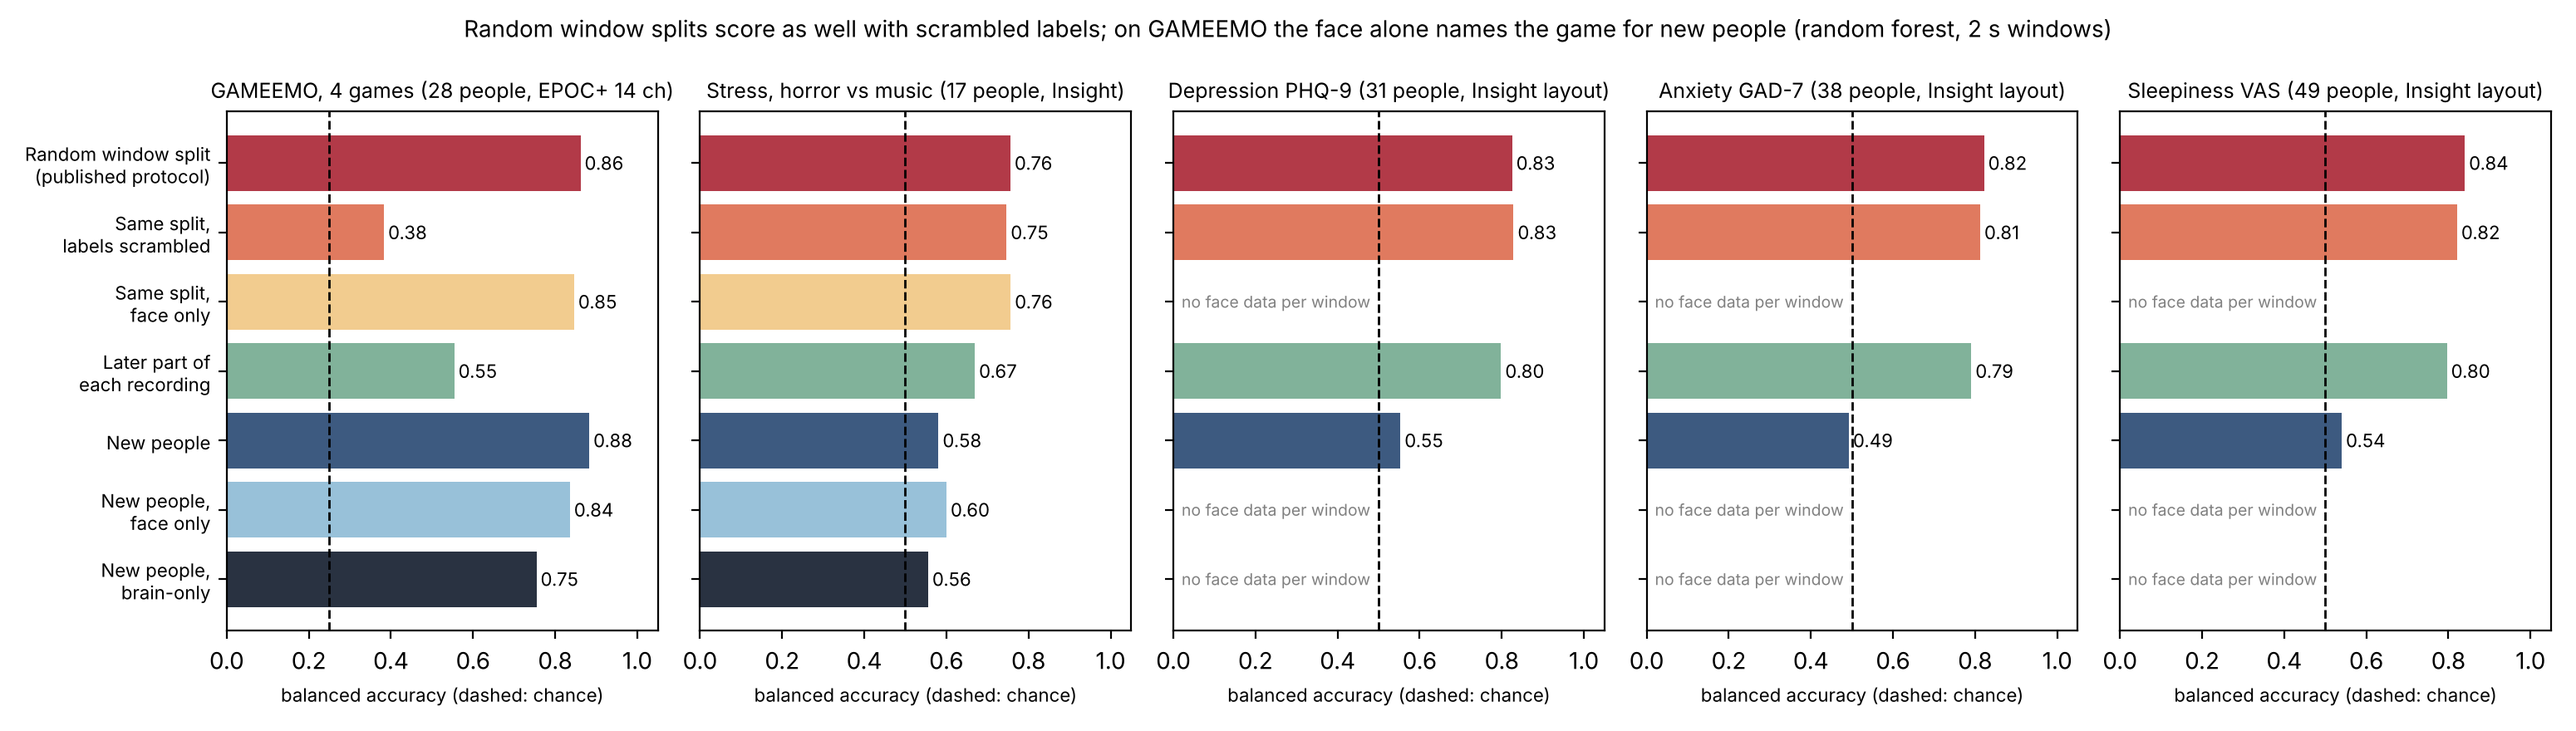
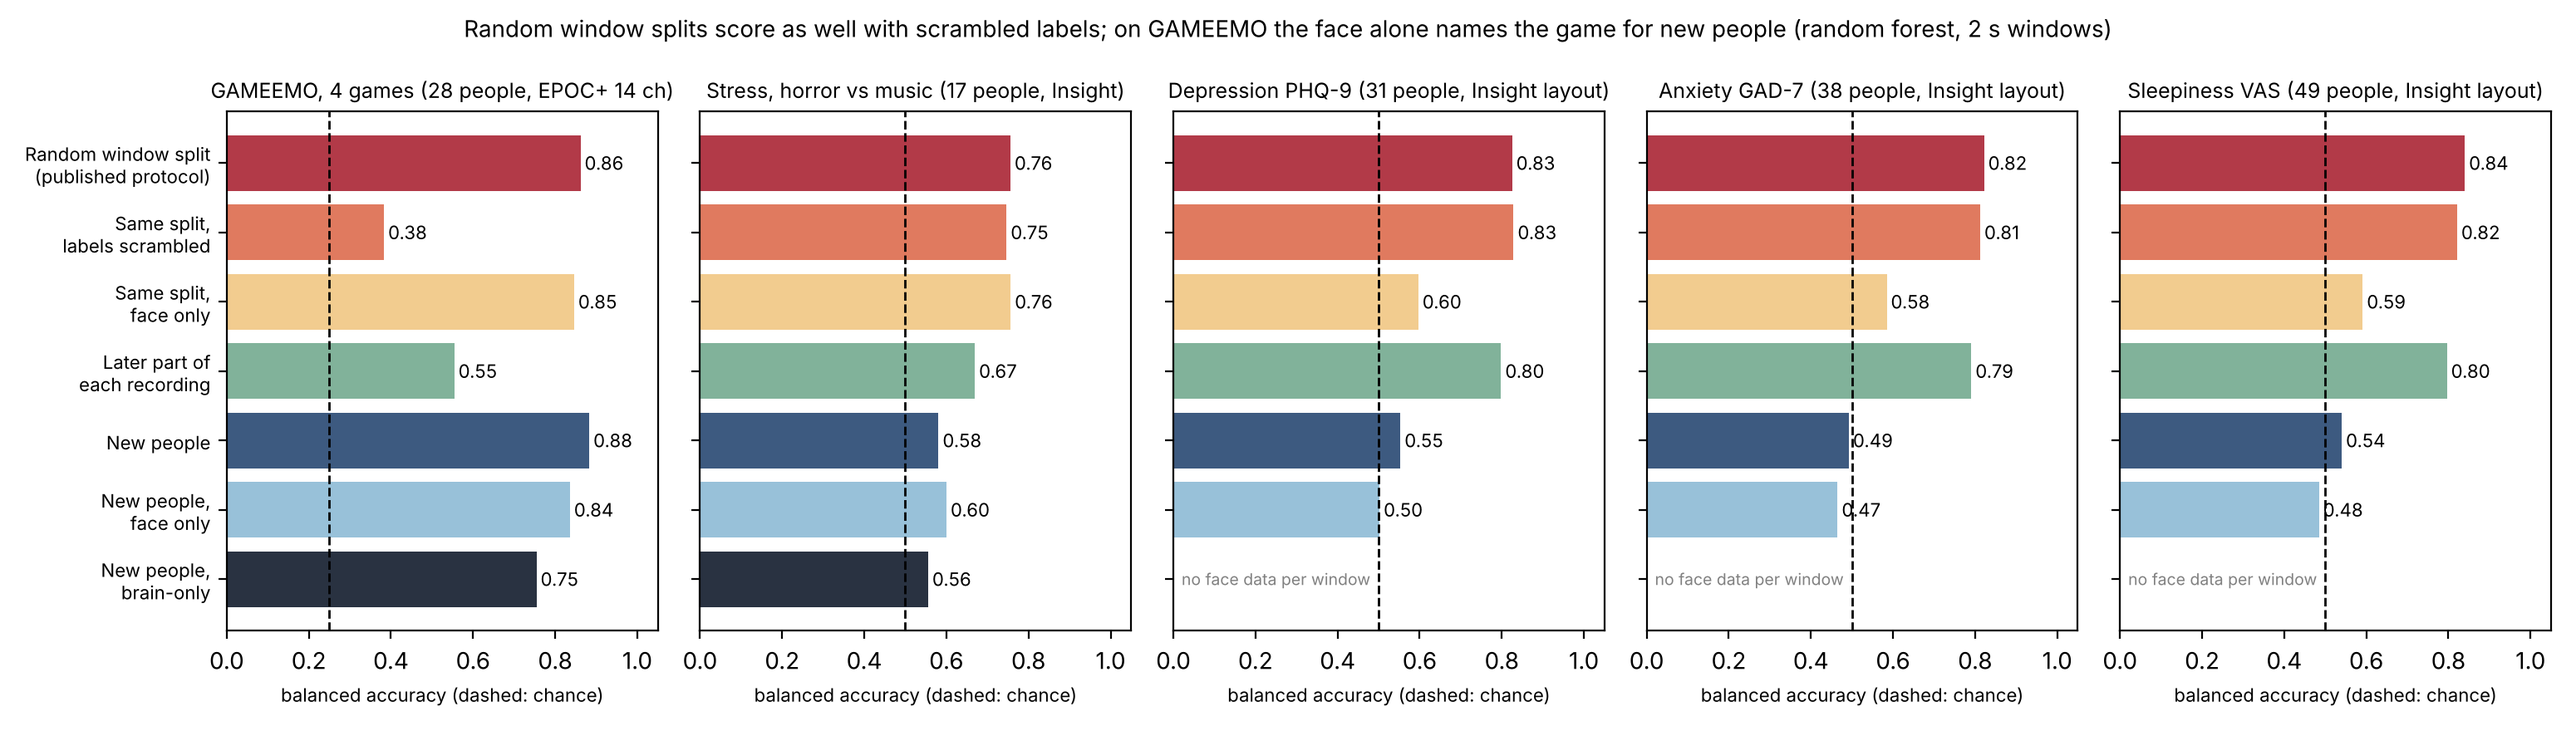
Leaderboard: face-only controls on all five datasets
Trait screens: face indices alone score 0.47-0.50 for new people (chance 0.5);
all other leaderboard numbers reproduce exactly.

Claude-Session: https://claude.ai/code/session_01QAhmdmCwiRBP9Drh8URduJ

diff --git a/docs/RESULTS.md b/docs/RESULTS.md
@@ -121,13 +121,14 @@ Same windows and features as 3c–3d, evaluated the way many papers do (windows 
 |---|---|---|---|---|---|---|---|---|
 | GAMEEMO, 4 games (0.25) | 0.86 | 0.38 | 0.85 | 0.55 | 0.88 | **0.84** | 0.75 | 0.23 (0.009) |
 | Stress, Insight (0.5) | 0.76 | **0.75** | 0.76 | 0.67 | 0.58 | **0.60** | 0.56 | 0.51 (0.029) |
-| Depression PHQ-9 (0.5) | 0.83 | **0.83** | — | 0.80 | 0.55 | — | — | 0.68 (0.032) |
-| Anxiety GAD-7 (0.5) | 0.82 | **0.81** | — | 0.79 | 0.49 | — | — | 0.66 (0.026) |
-| Sleepiness VAS (0.5) | 0.84 | **0.82** | — | 0.80 | 0.54 | — | — | 0.69 (0.020) |
+| Depression PHQ-9 (0.5) | 0.83 | **0.83** | 0.60 | 0.80 | 0.55 | 0.50 | — | 0.68 (0.032) |
+| Anxiety GAD-7 (0.5) | 0.82 | **0.81** | 0.58 | 0.79 | 0.49 | 0.47 | — | 0.66 (0.026) |
+| Sleepiness VAS (0.5) | 0.84 | **0.82** | 0.59 | 0.80 | 0.54 | 0.48 | — | 0.69 (0.020) |
 
 *Scrambled labels*: every recording gets a random class (balanced, independent of its true label; 3 draws averaged). The labels mean nothing, so accuracy above chance is recognition of the recording.
 - **Stress and the three trait screens: the random-split accuracy is recording identity.** Scrambled labels score the same as the real ones (0.75 vs 0.76, 0.83 vs 0.83, 0.81 vs 0.82, 0.82 vs 0.84). One 2 s window identifies its recording 51–69 % of the time (chance 2–3 %). The depression paper on this dataset reports 98.43 % with 5-fold CV on 5 s samples.
 - **GAMEEMO: the four games are separable for new people, but mostly by the face.** Eye and muscle indices alone (3 per electrode, no brain rhythms) name the game for new people 84 % of the time (chance 25 %), close to the full EEG's 88 %. Removing what the face indices predict (linearly, with squares) leaves 0.75 for a random forest, which can still exploit nonlinear face structure; the linear brain-only decoder is at 0.35 four-class. Training on the first 70 % of each game and testing on the last 30 % drops to 0.55, so the separating pattern changes over the course of each game and is shared across players: consistent with game-specific, time-locked eye and face behaviour (and possibly time on task, if the games were played in a fixed order; the dataset page doesn't say). Published GAMEEMO results of 94–99.99 % (random or unstated splits) therefore say little about emotion.
+- **Trait screens: the face doesn't name the trait either.** Face indices alone score 0.58–0.60 on a random split (the face also fingerprints a recording) and 0.47–0.50 for new people (chance 0.5), so nothing on these three datasets, brain or face, carries to a new person.
 - Logistic regression shows the same pattern at lower levels (stress: random 0.64, scrambled 0.57, new people 0.53, face only on new people 0.62).
 - Tool: the same checks as a package, `facecheck/` (`facecheck audit data.npz`), with known-answer tests.
 
